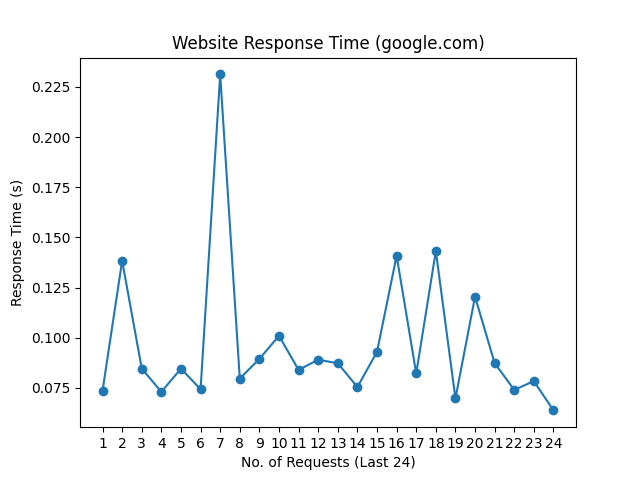
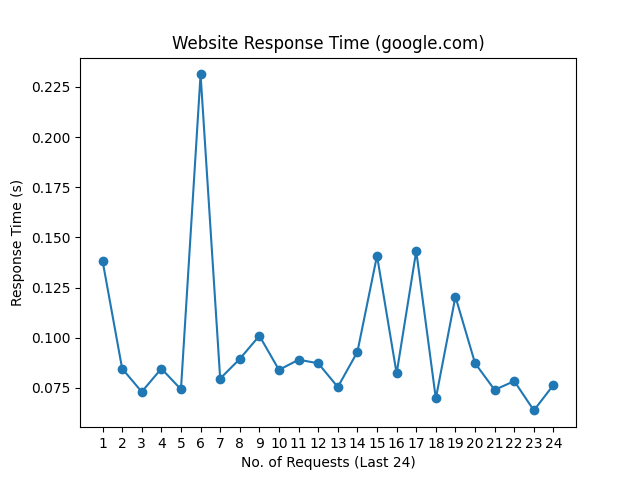
update README.md, history and graph

Changed region(s): [[0.1562, 0.125, 0.875, 0.875]]

diff --git a/README.md b/README.md
@@ -1,10 +1,10 @@
 # Web Monitoring
 
-Last Checked: 15/11/2024 08:21
+Last Checked: 16/11/2024 08:20
 
 | Website | Response Time (s) | Status | Avg Uptime (%) |
 |---------|-------------------|--------|----------------|
 | www.thiswebsiteisdown.net | 0 <br> <img src="graph/thiswebsiteisdown.net.png" alt="Graph" width="200" height="200">  | ❌ Down | 0.00 |
-| www.netflix.com | 0.828491 <br> <img src="graph/netflix.com.png" alt="Graph" width="200" height="200">  | ✅ Up | 100.00 |
-| www.google.com | 0.063728 <br> <img src="graph/google.com.png" alt="Graph" width="200" height="200">  | ✅ Up | 100.00 |
-| www.facebook.com | 0.267841 <br> <img src="graph/facebook.com.png" alt="Graph" width="200" height="200">  | ✅ Up | 100.00 |
+| www.netflix.com | 1.313933 <br> <img src="graph/netflix.com.png" alt="Graph" width="200" height="200">  | ✅ Up | 100.00 |
+| www.google.com | 0.076398 <br> <img src="graph/google.com.png" alt="Graph" width="200" height="200">  | ✅ Up | 100.00 |
+| www.facebook.com | 0.169518 <br> <img src="graph/facebook.com.png" alt="Graph" width="200" height="200">  | ✅ Up | 100.00 |
